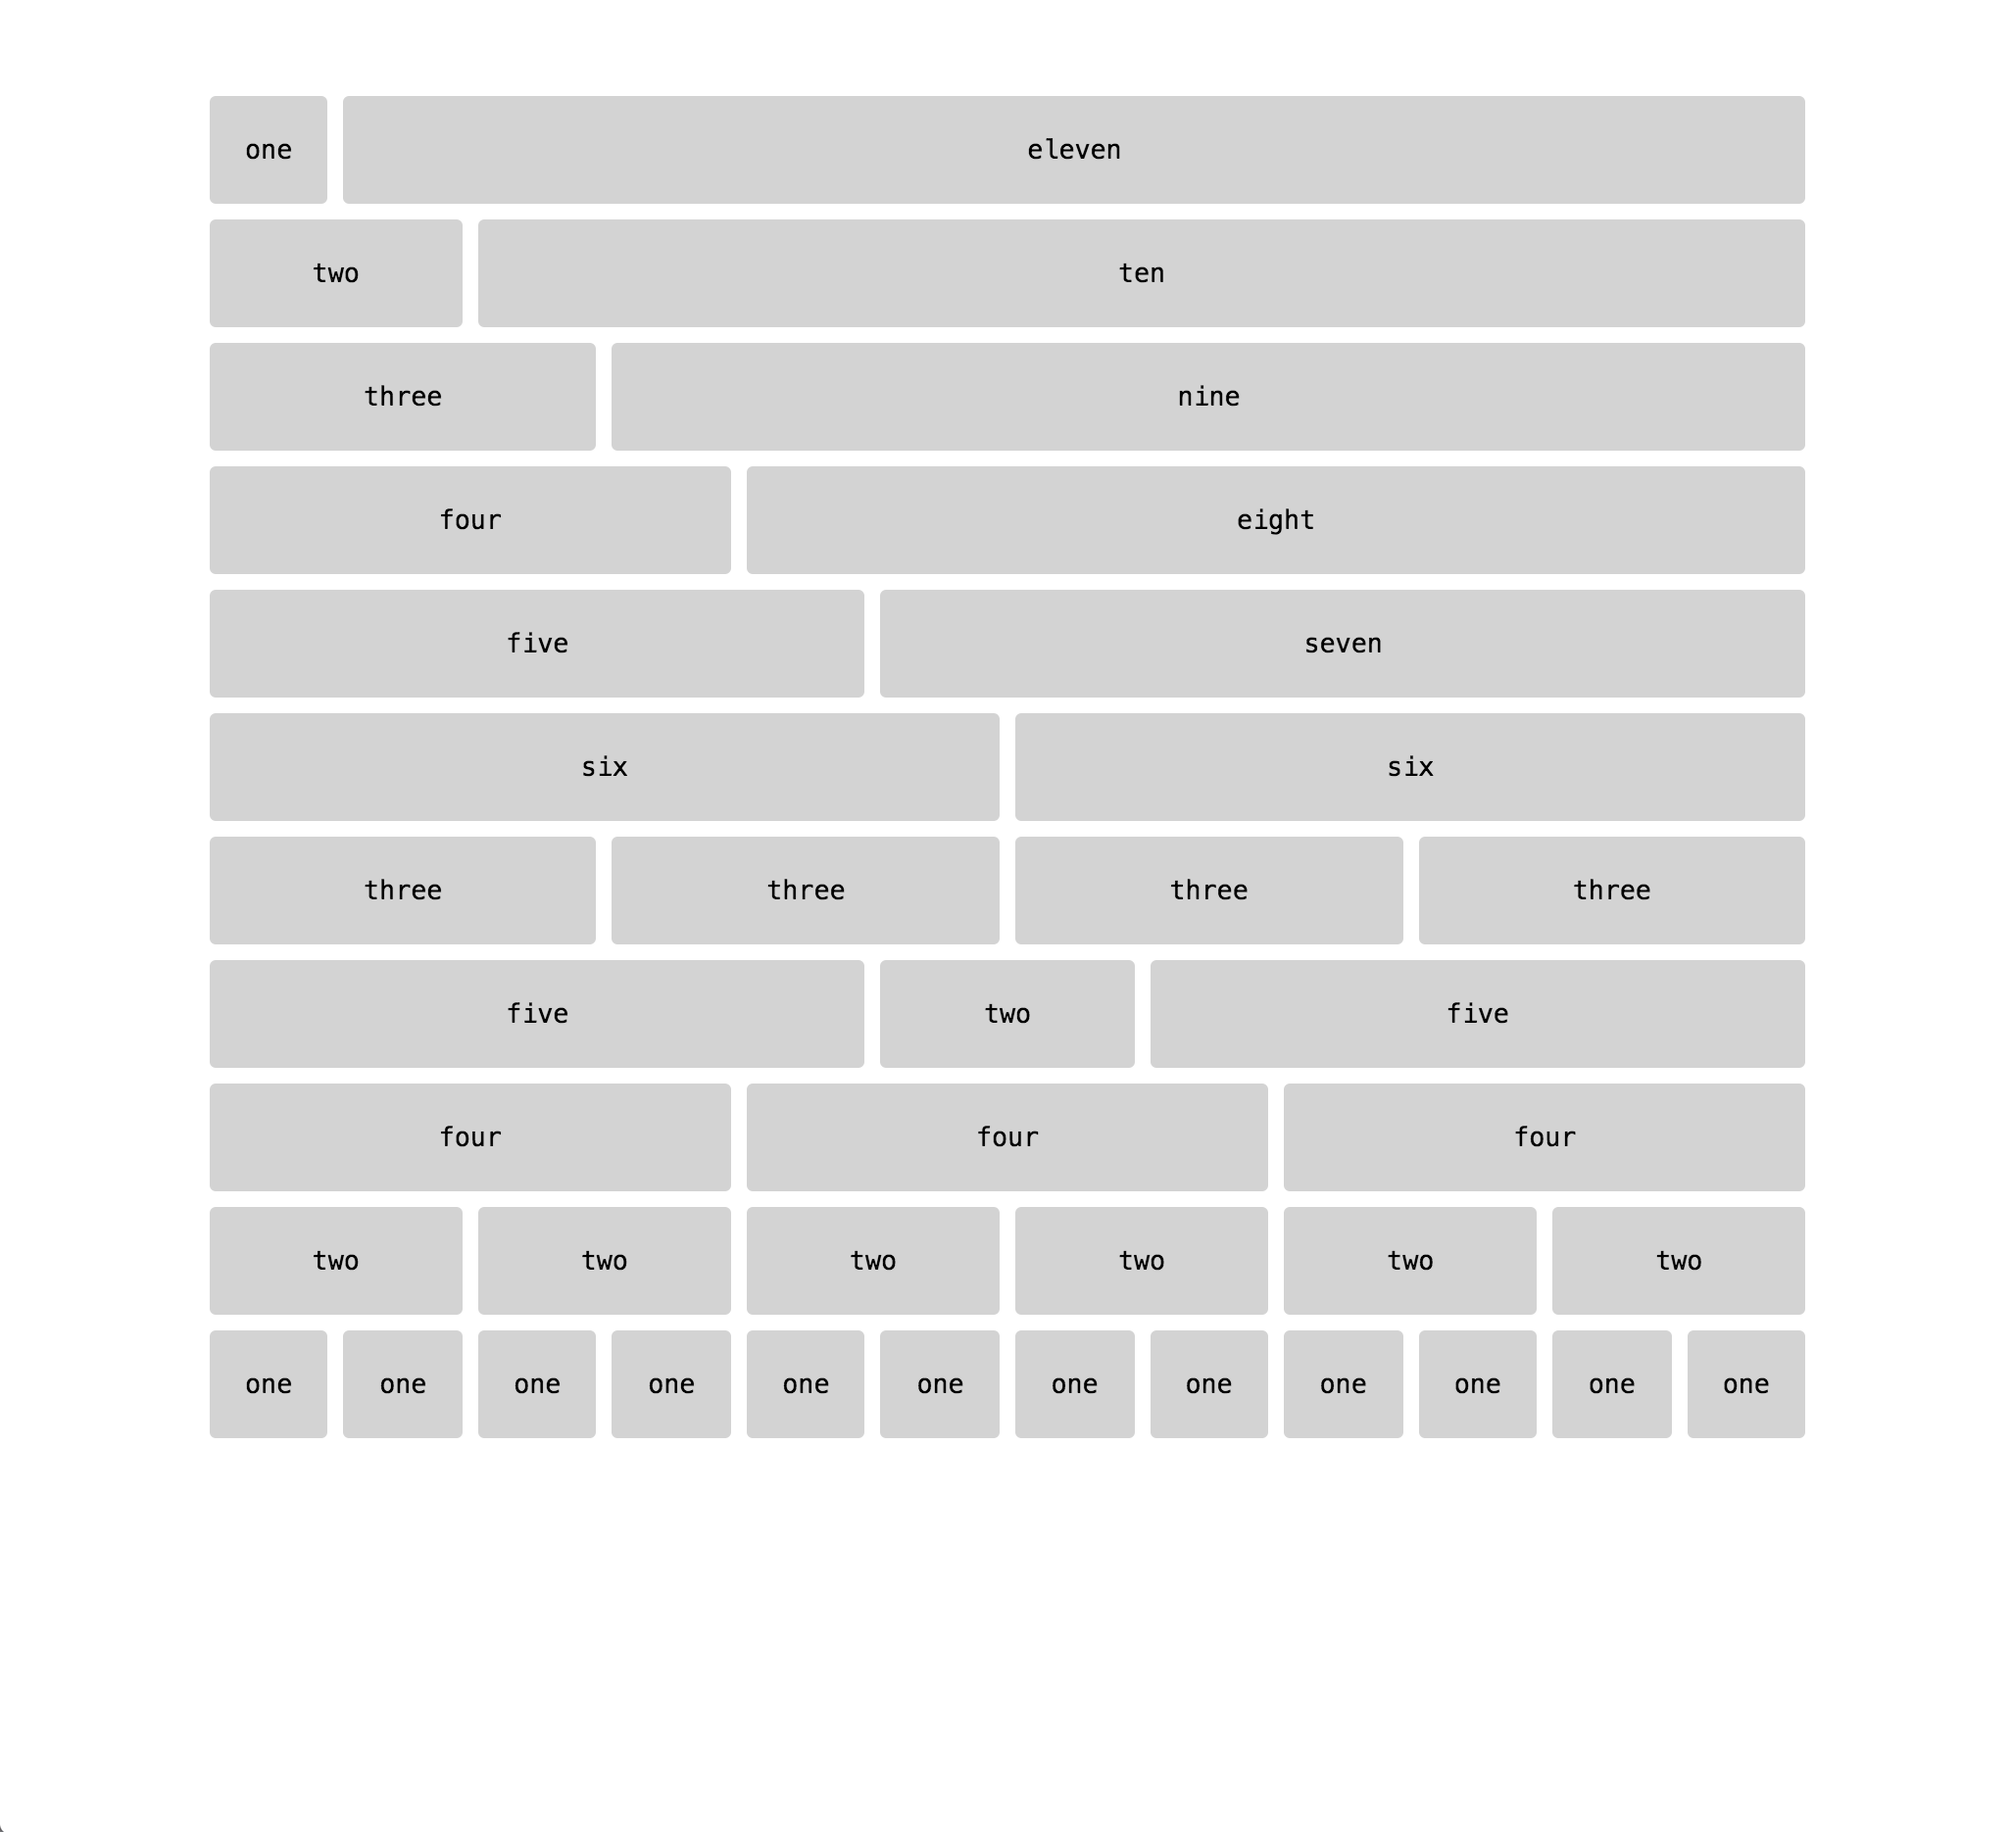
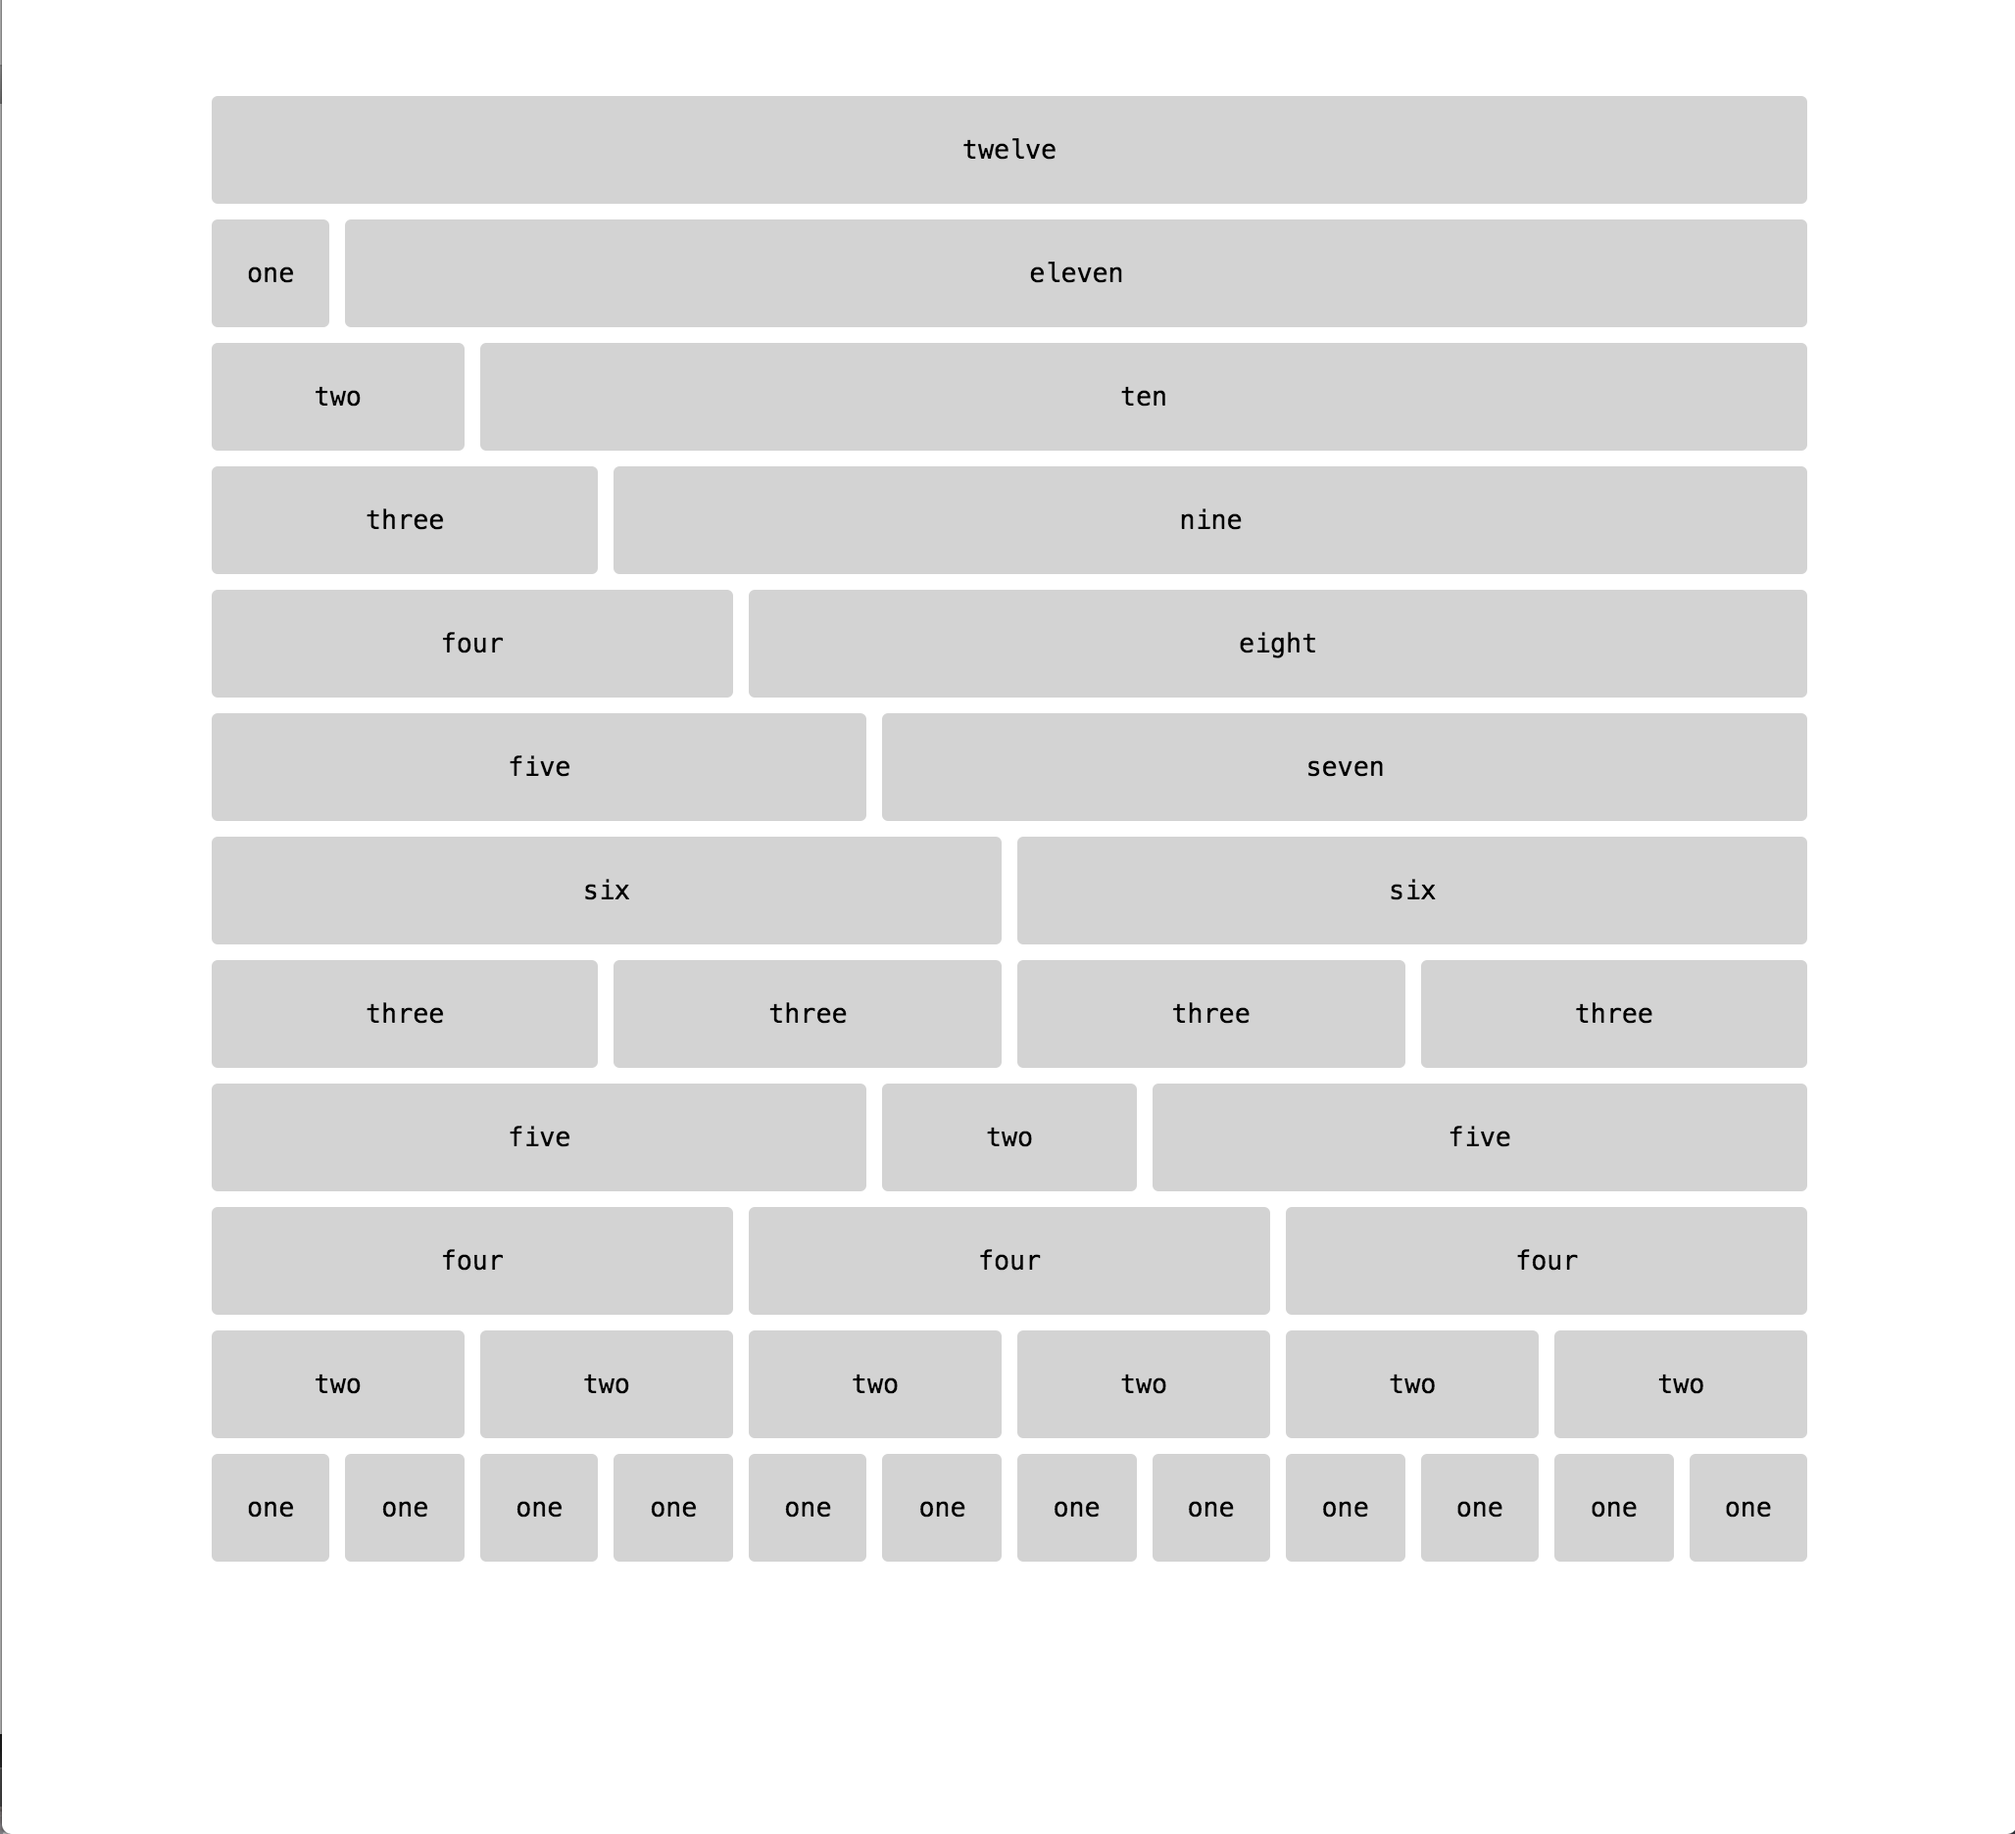
updating sample

diff --git a/index.html b/index.html
@@ -7,6 +7,11 @@
 <body>
   <div id="container">
     <div class="row">
+      <div class="twelve columns">
+        twelve
+      </div>
+    </div>
+    <div class="row">
       <div class="one column">
         one
       </div>
